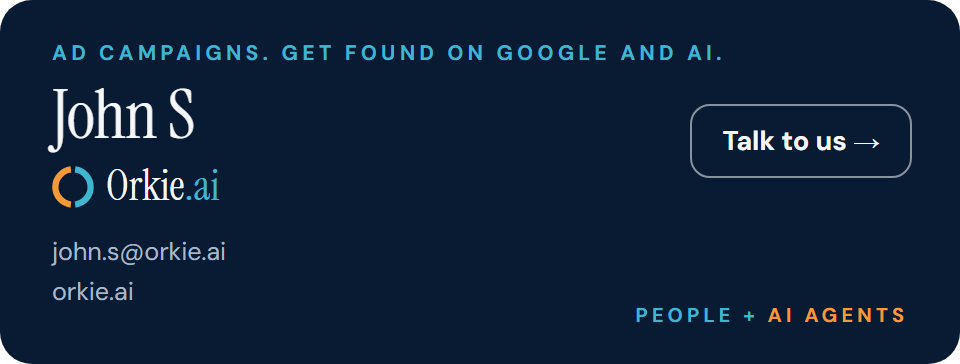
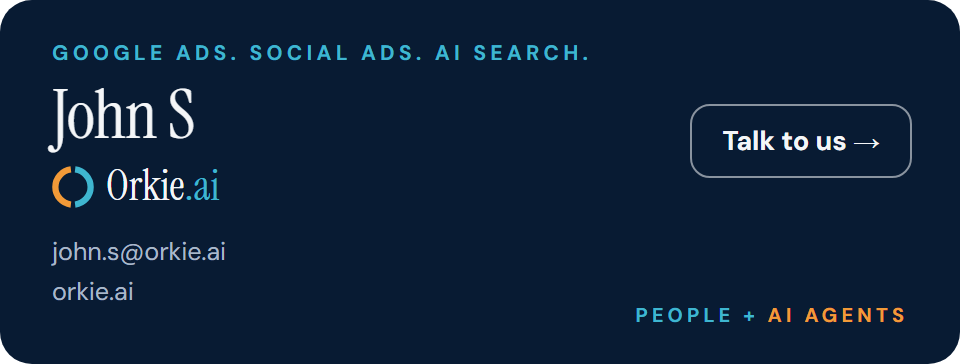
John S new title (Google Ads. Social ads. AI search.) and add Leo's signature
John's PNG is replaced in place so his saved signature updates on its own.
Leo (Chief of Staff to Gregg) gets a new card and Copy button.

Changed region(s): [[0.0312, 0.1209, 0.75, 0.1813]]

diff --git a/index.html b/index.html
@@ -93,7 +93,7 @@
     <div class="phead">
       <div>
         <div class="pname">John S</div>
-        <div class="ptitle">Ad campaigns. Get found on Google and AI.</div>
+        <div class="ptitle">Google Ads. Social ads. AI search.</div>
       </div>
       <button class="copy" data-i="3">Copy signature</button>
     </div>
@@ -140,10 +140,23 @@
       <a href="https://orkie.ai/talk/" target="_blank" rel="noopener"><img src="img/signature-vanessa-c-orkie-ai.png" alt="Vanessa C signature"></a>
     </div>
   </section>
+
+  <section class="person" id="leo">
+    <div class="phead">
+      <div>
+        <div class="pname">Leo</div>
+        <div class="ptitle">Chief of Staff to Gregg.</div>
+      </div>
+      <button class="copy" data-i="7">Copy signature</button>
+    </div>
+    <div class="preview">
+      <a href="https://orkie.ai/talk/" target="_blank" rel="noopener"><img src="img/signature-leo-orkie-ai.png" alt="Leo signature"></a>
+    </div>
+  </section>
   <p class="note">If the copy button doesn't work in your browser, right-click your signature image, choose <em>Copy image</em>, and paste that into Gmail instead — then click the image once and use the Link button to point it at orkie.ai/talk/.</p>
 </div>
 <script>
-const PAYLOADS = ["<a href=\"https://orkie.ai/talk/\"><img src=\"https://greggviza.github.io/orkie-signatures/img/signature-gregg-h-orkie-ai.png\" width=\"480\" alt=\"Gregg H \u2014 Orkie.ai\" style=\"display:block;border:0;\"></a>", "<a href=\"https://orkie.ai/talk/\"><img src=\"https://greggviza.github.io/orkie-signatures/img/signature-bryan-n-orkie-ai.png\" width=\"480\" alt=\"Bryan N \u2014 Orkie.ai\" style=\"display:block;border:0;\"></a>", "<a href=\"https://orkie.ai/talk/\"><img src=\"https://greggviza.github.io/orkie-signatures/img/signature-rich-a-orkie-ai.png\" width=\"480\" alt=\"Rich A \u2014 Orkie.ai\" style=\"display:block;border:0;\"></a>", "<a href=\"https://orkie.ai/talk/\"><img src=\"https://greggviza.github.io/orkie-signatures/img/signature-john-s-orkie-ai.png\" width=\"480\" alt=\"John S \u2014 Orkie.ai\" style=\"display:block;border:0;\"></a>", "<a href=\"https://orkie.ai/talk/\"><img src=\"https://greggviza.github.io/orkie-signatures/img/signature-ed-a-orkie-ai.png\" width=\"480\" alt=\"Ed A \u2014 Orkie.ai\" style=\"display:block;border:0;\"></a>", "<a href=\"https://orkie.ai/talk/\"><img src=\"https://greggviza.github.io/orkie-signatures/img/signature-john-c-orkie-ai.png\" width=\"480\" alt=\"John C \u2014 Orkie.ai\" style=\"display:block;border:0;\"></a>", "<a href=\"https://orkie.ai/talk/\"><img src=\"https://greggviza.github.io/orkie-signatures/img/signature-vanessa-c-orkie-ai.png\" width=\"480\" alt=\"Vanessa C \u2014 Orkie.ai\" style=\"display:block;border:0;\"></a>"];
+const PAYLOADS = ["<a href=\"https://orkie.ai/talk/\"><img src=\"https://greggviza.github.io/orkie-signatures/img/signature-gregg-h-orkie-ai.png\" width=\"480\" alt=\"Gregg H \u2014 Orkie.ai\" style=\"display:block;border:0;\"></a>", "<a href=\"https://orkie.ai/talk/\"><img src=\"https://greggviza.github.io/orkie-signatures/img/signature-bryan-n-orkie-ai.png\" width=\"480\" alt=\"Bryan N \u2014 Orkie.ai\" style=\"display:block;border:0;\"></a>", "<a href=\"https://orkie.ai/talk/\"><img src=\"https://greggviza.github.io/orkie-signatures/img/signature-rich-a-orkie-ai.png\" width=\"480\" alt=\"Rich A \u2014 Orkie.ai\" style=\"display:block;border:0;\"></a>", "<a href=\"https://orkie.ai/talk/\"><img src=\"https://greggviza.github.io/orkie-signatures/img/signature-john-s-orkie-ai.png\" width=\"480\" alt=\"John S \u2014 Orkie.ai\" style=\"display:block;border:0;\"></a>", "<a href=\"https://orkie.ai/talk/\"><img src=\"https://greggviza.github.io/orkie-signatures/img/signature-ed-a-orkie-ai.png\" width=\"480\" alt=\"Ed A \u2014 Orkie.ai\" style=\"display:block;border:0;\"></a>", "<a href=\"https://orkie.ai/talk/\"><img src=\"https://greggviza.github.io/orkie-signatures/img/signature-john-c-orkie-ai.png\" width=\"480\" alt=\"John C \u2014 Orkie.ai\" style=\"display:block;border:0;\"></a>", "<a href=\"https://orkie.ai/talk/\"><img src=\"https://greggviza.github.io/orkie-signatures/img/signature-vanessa-c-orkie-ai.png\" width=\"480\" alt=\"Vanessa C \u2014 Orkie.ai\" style=\"display:block;border:0;\"></a>", "<a href=\"https://orkie.ai/talk/\"><img src=\"https://greggviza.github.io/orkie-signatures/img/signature-leo-orkie-ai.png\" width=\"480\" alt=\"Leo \u2014 Orkie.ai\" style=\"display:block;border:0;\"></a>"];
 document.querySelectorAll('button.copy').forEach(btn => {
   btn.addEventListener('click', async () => {
     const html = PAYLOADS[+btn.dataset.i];
